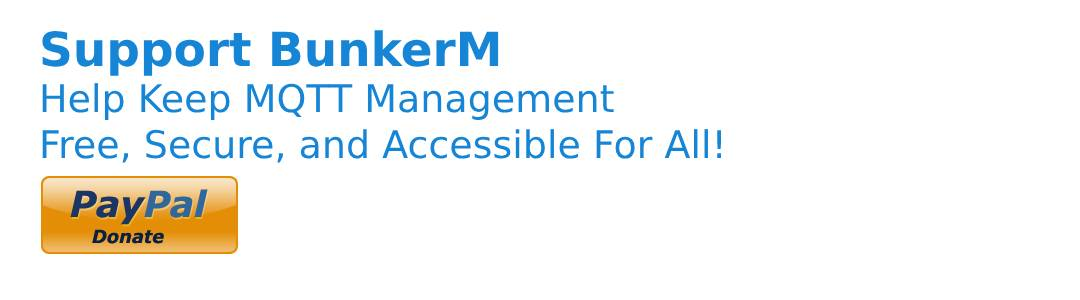
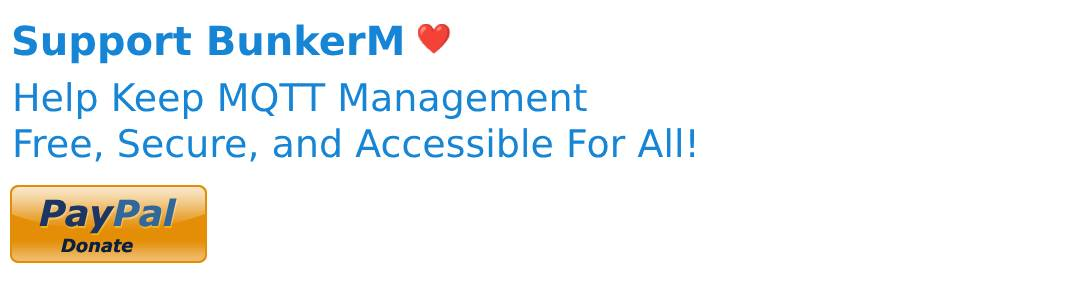
Readme

Changed region(s): [[0.0, 0.06, 0.5806, 0.42], [0.0, 0.57, 0.2444, 0.9], [0.0, 0.42, 0.6722, 0.54]]

diff --git a/README.md b/README.md
@@ -1,24 +1,6 @@
 # BunkerM - MQTT Made Easy ✅  
 
-
-## Support BunkerM Project ❤🙏 
-**Help Keep MQTT Management Free, Secure, and Accessible for All!**
-
-
- As a solo developer, I've poured countless hours into creating a comprehensive solution that combines the power of Mosquitto with an intuitive management interface, all while keeping it free for non-commercial use.
-
-Your donation helps support:
-* Continuous development of new features
-* Maintenance and bug fixes
-* Documentation improvements
-* Community support
-
-
-Every contribution, no matter the size, helps keep this project active and growing. If you find BunkerM useful in your projects or learning journey, consider supporting its development. Together, we can make IoT and MQTT technology more accessible to developers worldwide.
-
-[![PayPal](https://www.paypalobjects.com/en_US/i/btn/btn_donate_LG.gif)](https://www.paypal.com/donate/?hosted_button_id=ZFEJHMWKU2Q4Q)
-
-Thank you for supporting open source! 🙏
+[![Support BunkerM](/screenshots/SupportBM.jpg)](https://www.paypal.com/donate/?hosted_button_id=ZFEJHMWKU2Q4Q)
 
 # Table of Contents
 - [What is BunkerM?](#what-is-bunkerm)
@@ -262,6 +244,23 @@ This module provides a real-time list of currently connected clients on a node, 
 | White Labeling | ✗ | ✗ | ✓ |
 
 
+
+## Support BunkerM Project ❤🙏 
+
+BunkerM is an open-source project dedicated to making MQTT broker management accessible and secure for everyone. As a solo developer, I've poured countless hours into creating a comprehensive solution that combines the power of Mosquitto with an intuitive management interface, all while keeping it free for non-commercial use.
+
+Your donation helps support:
+* Continuous development of new features
+* Maintenance and bug fixes
+* Documentation improvements
+* Community support
+
+
+Every contribution, no matter the size, helps keep this project active and growing. If you find BunkerM useful in your projects or learning journey, consider supporting its development. Together, we can make IoT and MQTT technology more accessible to developers worldwide.
+
+[![PayPal](https://www.paypalobjects.com/en_US/i/btn/btn_donate_LG.gif)](https://www.paypal.com/donate/?hosted_button_id=ZFEJHMWKU2Q4Q)
+
+Thank you for supporting open source! 🙏
 
 ## License
 
